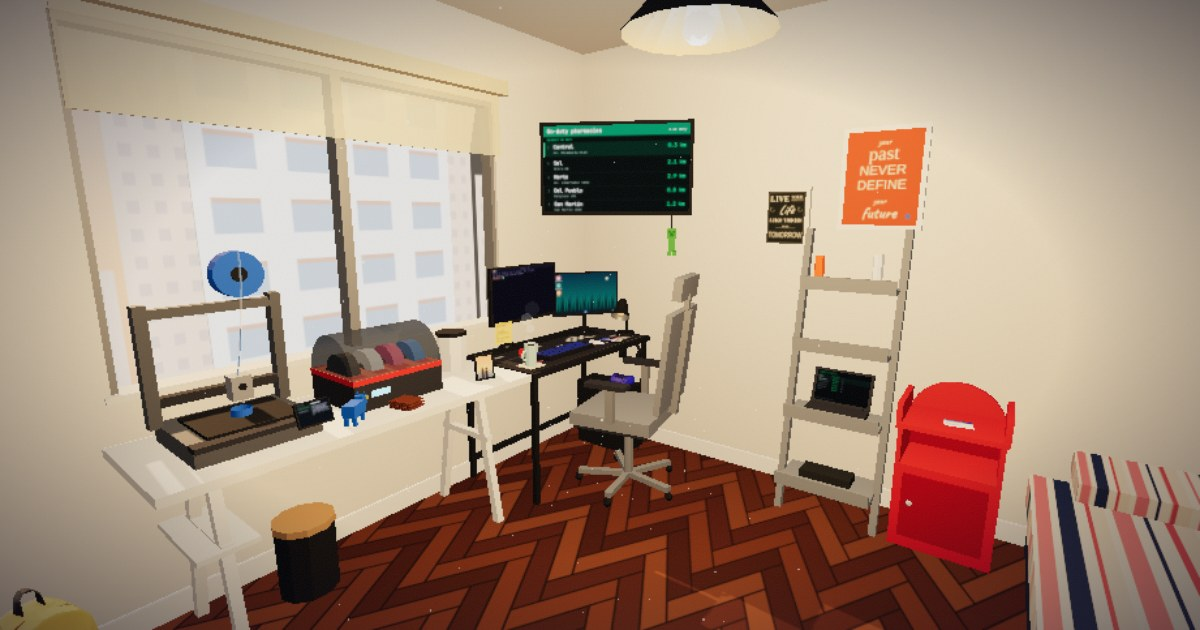
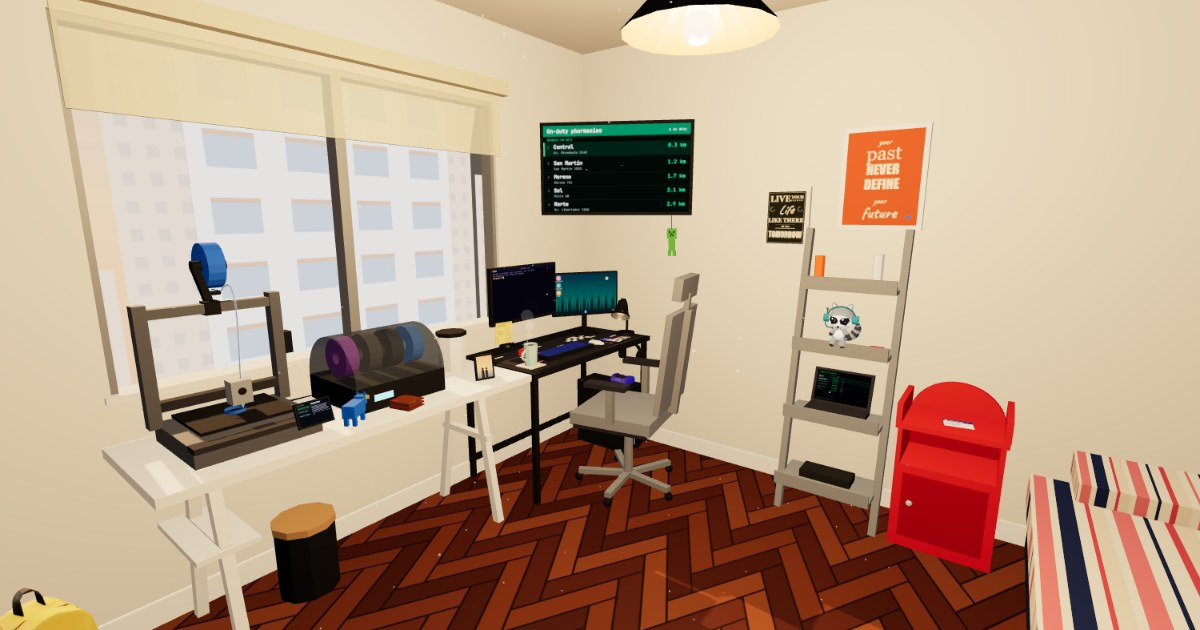
Fix the printer's spool holder and the CFS, refresh the link preview
- The spool hangs by its hole from a holder clamped to the top bar, facing
  the side; the bowden tube leaves from a peg low on the holder.
- The CFS loses its red block: a black base with the spools resting inside
  the dome, a data cable to the printer and a PTFE tube to a filament buffer
  on the printer's upright.
- The link preview is rendered again from the current room, with a new
  query string so link previews fetch it again.

diff --git a/src/room.js b/src/room.js
@@ -366,7 +366,16 @@ export function buildRoom(scene, { lowPower = false, terminal, getLang, avatarUr
     const ui = screen(512, 358, printerApp(), 1.5);
     const mesh = buildPrinter(g, ui, anim);
     hotspots.printer = { kind: 'screen', group: g, anchor: [0, 0.75, 0], mesh, size: [0.12, 0.085] };
+    // filament buffer on the upright facing the CFS
+    box(g, [0.03, 0.09, 0.05], [0.255, 0.3, -0.15], C.black);
+    box(g, [0.002, 0.02, 0.025], [0.271, 0.32, -0.15], '#3fbf6a');
   }
+  // behind the CFS (table coordinates): its data cable along the table to the printer's
+  // back, and a PTFE tube up to the buffer's bottom
+  const lay = (pts, r, mat) => put(table, new THREE.TubeGeometry(new THREE.CatmullRomCurve3(pts.map((p) => new THREE.Vector3(...p))), 32, r, 6), mat, [0, 0, 0]);
+  lay([[-0.262, 0.8, -0.05], [-0.285, 0.772, 0], [-0.28, 0.772, 0.2], [-0.24, 0.78, 0.32], [-0.222, 0.8, 0.33]], 0.004, C.black);
+  lay([[-0.265, 0.84, 0.04], [-0.28, 0.93, 0.12], [-0.2, 0.95, 0.19], [-0.17, 1.025, 0.195]], 0.0045,
+    M('#ffffff', { transparent: true, opacity: 0.45, roughness: 0.3 }));
 
   // blue 3D-printed cow: AgroScanner, with its ear tag
   {
@@ -910,19 +919,20 @@ function buildMug(parent, [x, y, z], anim) {
 function buildCFS(table, pos) {
   const g = group(table, pos);
   // long side along the table (z), front (display) facing the room (+x)
-  box(g, [0.36, 0.14, 0.44], [0, 0.07, 0], C.graphite);
-  box(g, [0.365, 0.024, 0.445], [0, 0.13, 0], C.red);
-  const spools = ['#2f6fdc', '#d83a7a', '#f2f2f2', '#1c1c22'];
-  spools.forEach((c, i) => {
-    const z = -0.165 + i * 0.11;
-    cyl(g, [0.095, 0.095, 0.06, 18], [0, 0.13, z], c, [Math.PI / 2, 0, 0]);
-    cyl(g, [0.035, 0.035, 0.062, 10], [0, 0.13, z], '#2a2a2a', [Math.PI / 2, 0, 0]);
-  });
+  box(g, [0.4, 0.11, 0.44], [0, 0.055, 0], C.black);
+  // the spools rest on the base, inside the dome
+  ['#2f6fdc', '#1c1c22', '#3a3a40', '#8a3bb8'].forEach((c, i) => spool(g, [0, 0.21, -0.165 + i * 0.11], c, [Math.PI / 2, 0, 0]));
   // smoked dome, flat side down, its axis along the long side
-  const dome = put(g, new THREE.CylinderGeometry(0.175, 0.175, 0.44, 18, 1, false, Math.PI / 2, Math.PI),
-    M('#4a4f5a', { transparent: true, opacity: 0.55, roughness: 0.15, side: THREE.DoubleSide }), [0, 0.142, 0], [Math.PI / 2, 0, 0]);
+  const dome = put(g, new THREE.CylinderGeometry(0.2, 0.2, 0.44, 18, 1, false, Math.PI / 2, Math.PI),
+    M('#4a4f5a', { transparent: true, opacity: 0.55, roughness: 0.15, side: THREE.DoubleSide }), [0, 0.11, 0], [Math.PI / 2, 0, 0]);
   dome.castShadow = false;
-  box(g, [0.004, 0.03, 0.09], [0.182, 0.07, 0.1], glow('#5ad1ff', 1.2)); // the little display
+  box(g, [0.004, 0.03, 0.09], [0.202, 0.055, 0.1], glow('#5ad1ff', 1.2)); // the little display
+}
+
+// a filament spool: a thick ring around its hole, axis along y
+function spool(p, pos, color, rot) {
+  const profile = [[0.028, -0.03], [0.09, -0.03], [0.09, 0.03], [0.028, 0.03], [0.028, -0.03]].map(([x, y]) => new THREE.Vector2(x, y));
+  return put(p, new THREE.LatheGeometry(profile, 18), M(color, { side: THREE.DoubleSide }), pos, rot);
 }
 
 // ---------- 3D printer: prints a ring layer by layer; nozzle, bed and gantry follow the path ----------
@@ -945,9 +955,16 @@ function buildPrinter(g, ui, anim) {
   box(head, [0.07, 0.09, 0.06], [0, 0.03, -0.02], M('#b9bcc4', { roughness: 0.35, metalness: 0.4 }));
   cyl(head, [0.014, 0.014, 0.005, 12], [0, 0.035, 0.011], C.black, [Math.PI / 2, 0, 0]);
   put(head, new THREE.ConeGeometry(0.008, 0.02, 6), C.steel, [0, -0.025, 0], [Math.PI, 0, 0]);
-  const spool = group(g, [0.1, 0.6, -0.15]);
-  cyl(spool, [0.09, 0.09, 0.06, 18], [0, 0, 0], C.blue, [Math.PI / 2, 0, 0]);
-  cyl(spool, [0.03, 0.03, 0.065, 10], [0, 0, 0], C.black, [Math.PI / 2, 0, 0]);
+  // spool holder clamped to the top bar: an arm up and back, the spool hanging from its
+  // axle by the hole, facing the side; a short peg low on the arm takes the bowden tube
+  box(g, [0.05, 0.05, 0.055], [0, 0.48, -0.15], C.black);
+  box(g, [0.025, 0.17, 0.025], [0, 0.565, -0.215], C.black, [-0.7, 0, 0]);
+  cyl(g, [0.022, 0.022, 0.11, 12], [0.045, 0.63, -0.27], C.black, [0, 0, Math.PI / 2]);
+  cyl(g, [0.027, 0.027, 0.008, 12], [0.1, 0.63, -0.27], C.black, [0, 0, Math.PI / 2]);
+  cyl(g, [0.008, 0.008, 0.05, 8], [0.025, 0.53, -0.185], C.black, [0, 0, Math.PI / 2]);
+  cyl(g, [0.0016, 0.0016, 0.086, 4], [0.05, 0.535, -0.2275], C.blue, [Math.PI / 2, 0, 0]); // filament from the spool to the peg
+  const reel = group(g, [0.05, 0.63, -0.27]);
+  spool(reel, [0, 0, 0], C.blue, [0, 0, Math.PI / 2]);
   // the touch screen with the print queue
   box(g, [0.13, 0.095, 0.012], [0.16, 0.1, 0.25], C.black, [-0.35, 0, 0]);
   const mesh = screenPlane(g, 0.12, 0.084, ui, [0.16, 0.104, 0.257]);
@@ -975,12 +992,12 @@ function buildPrinter(g, ui, anim) {
     print.scale.y = Math.max(0.001, layer / LAYERS);
     // the nozzle tip rides on top of the current layer
     gantry.position.y = 0.091 + (layer + 1) * LH + 0.035; // bed top + print height + nozzle length
-    spool.rotation.z = -t * 0.4;
+    reel.rotation.x = -t * 0.4;
     if (t - lastTube > 1 / 10 && view.sees(mesh)) {
       lastTube = t;
-      a.set(0.1, 0.66, -0.15);
+      a.set(0.05, 0.53, -0.185); // the peg on the holder
       d.set(head.position.x, gantry.position.y + 0.075, -0.02); // top of the toolhead
-      b.set(0.12, 0.8, -0.1); c.set((d.x + 0.1) / 2, d.y + 0.14, -0.03);
+      b.set(0.1, 0.66, -0.12); c.set((d.x + 0.05) / 2, d.y + 0.14, -0.03);
       curve.needsUpdate = true; // its points moved: re-measure its arc length
       if (tube.geometry.type !== 'TubeGeometry') {
         tube.geometry = new THREE.TubeGeometry(curve, 24, 0.0045, 6);
@@ -990,7 +1007,7 @@ function buildPrinter(g, ui, anim) {
     const u = Math.floor(t);
     if (u !== lastUi && view.sees(mesh)) { lastUi = u; ui.redraw(t); }
   });
-  for (const o of [bed, gantry, spool, tube, fil]) o.userData.dynamic = true; // they move
+  for (const o of [bed, gantry, reel, tube, fil]) o.userData.dynamic = true; // they move
   return mesh;
 }
 

diff --git a/index.html b/index.html
@@ -13,8 +13,8 @@
     <meta property="og:url" content="https://facundosorasio.com/">
     <meta property="og:title" content="Facundo Sorasio | Software Developer">
     <meta property="og:description" content="Walk into my room: projects, experience and contact in an interactive 3D space.">
-    <meta property="og:image" content="https://facundosorasio.com/images/og-room.jpg">
-    <meta property="og:image:secure_url" content="https://facundosorasio.com/images/og-room.jpg">
+    <meta property="og:image" content="https://facundosorasio.com/images/og-room.jpg?v=2">
+    <meta property="og:image:secure_url" content="https://facundosorasio.com/images/og-room.jpg?v=2">
     <meta property="og:image:type" content="image/jpeg">
     <meta property="og:image:width" content="1200">
     <meta property="og:image:height" content="630">
